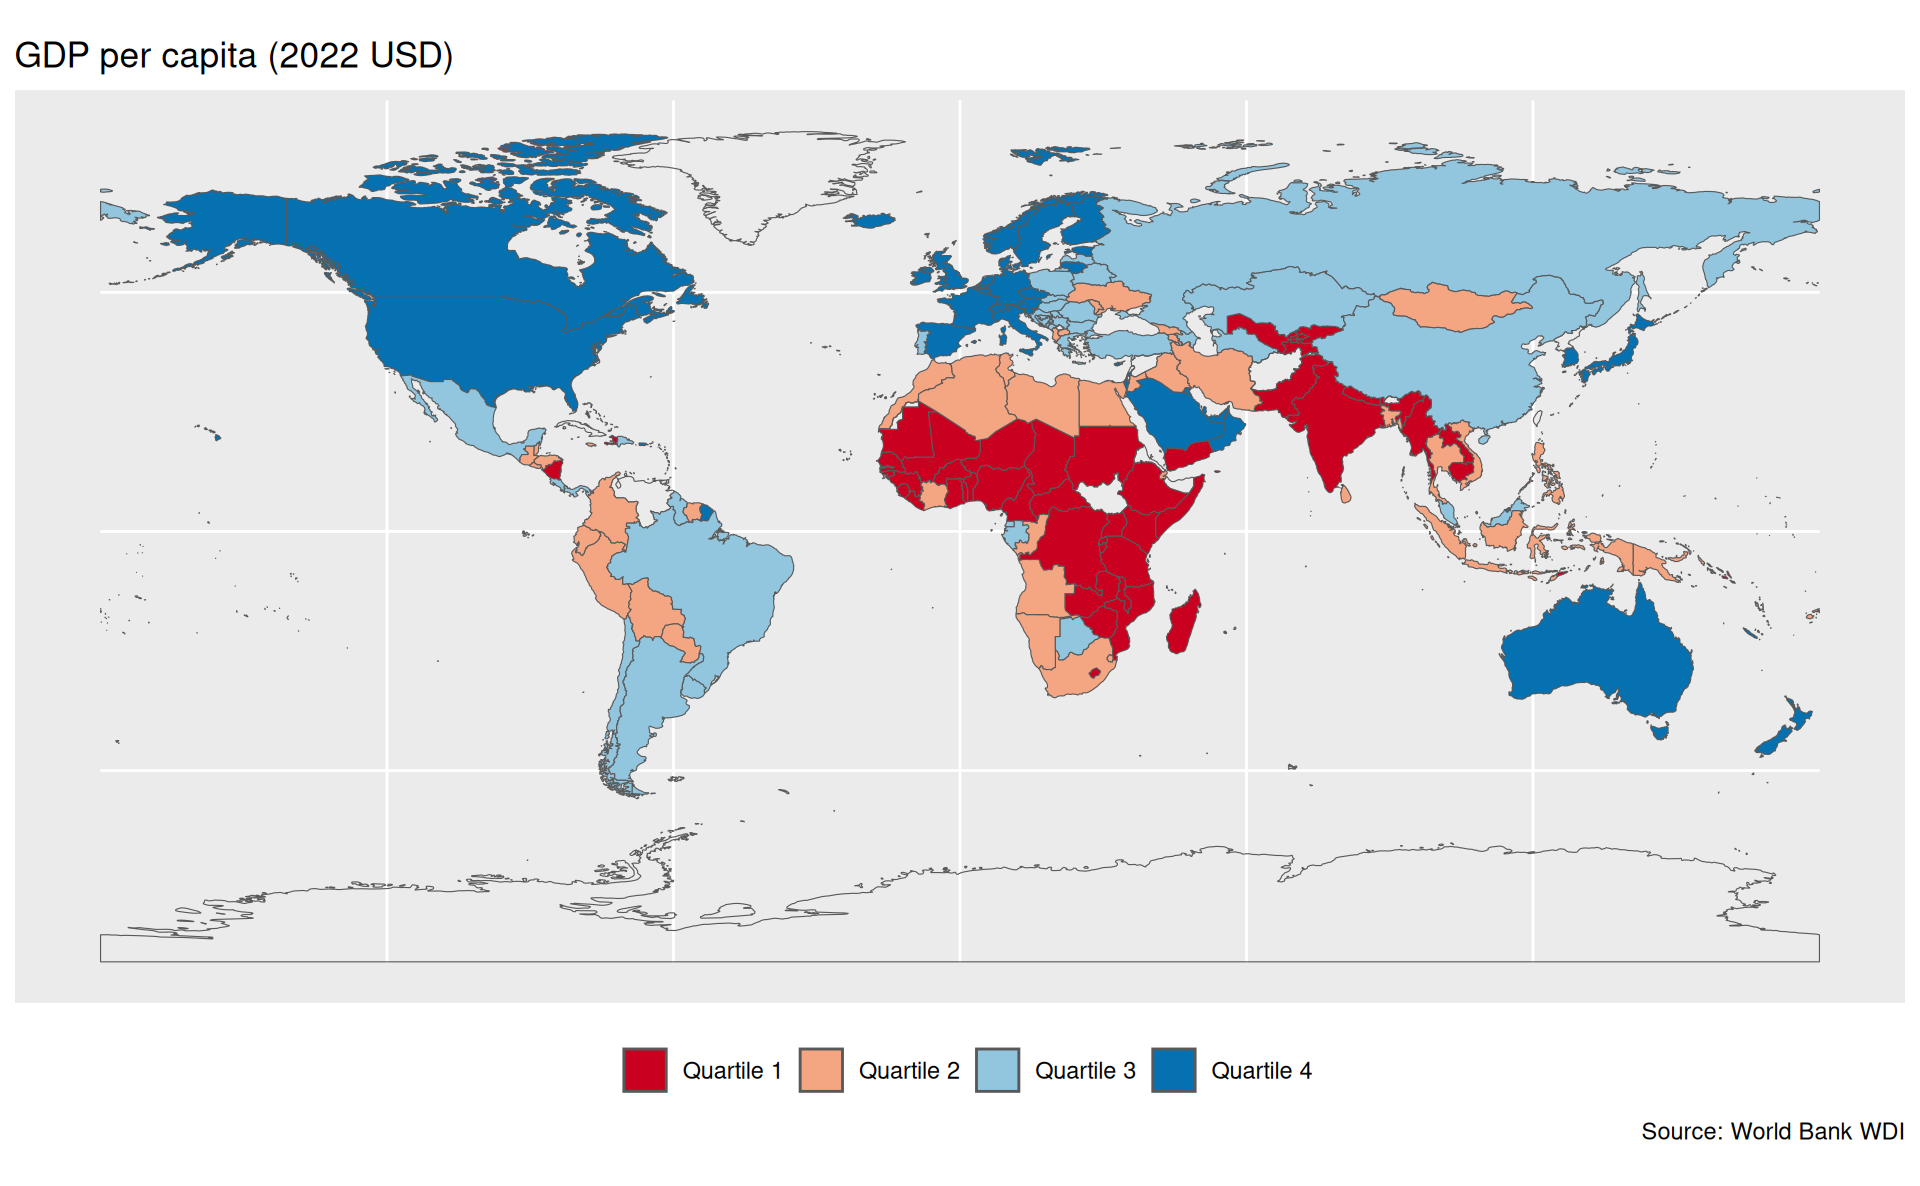
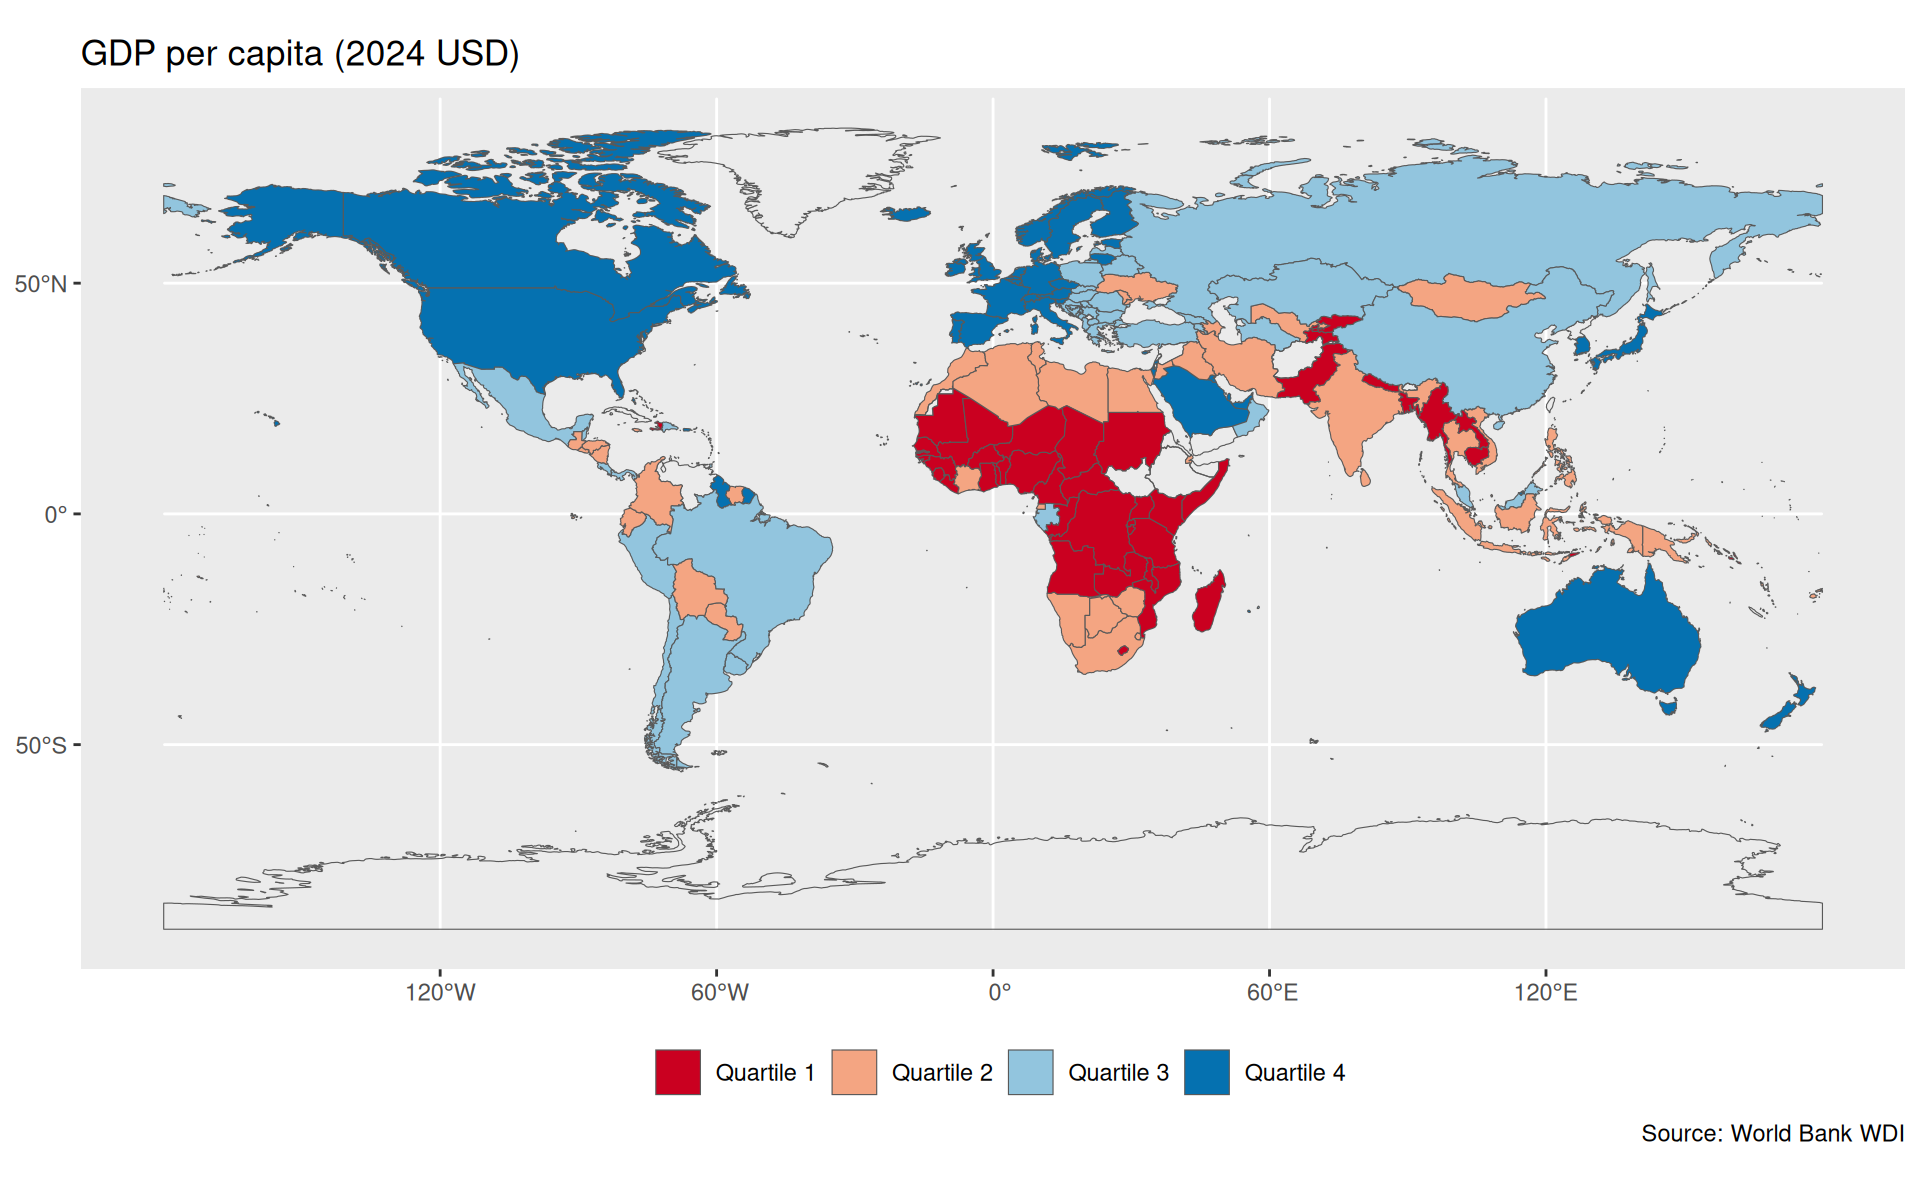
Update 14-2 data

diff --git a/14-2-Racism_and_IR_Theory.html b/14-2-Racism_and_IR_Theory.html
@@ -645,7 +645,7 @@
 </div>
 
 <img data-src="14-2-Racism_and_IR_Theory_files/figure-revealjs/unnamed-chunk-5-1.png" class="quarto-figure quarto-figure-center r-stretch" width="960"><aside class="notes">
-<p>This is 2022 data from the World Bank on the size of country economies around the world</p>
+<p>This is 2024 data from the World Bank on the size of country economies around the world</p>
 <ul>
 <li><p>GDP per capita is a measure that scales the size of an economy by the size of the population</p></li>
 <li><p>The quartiles break the world into four equally sized groups</p></li>
